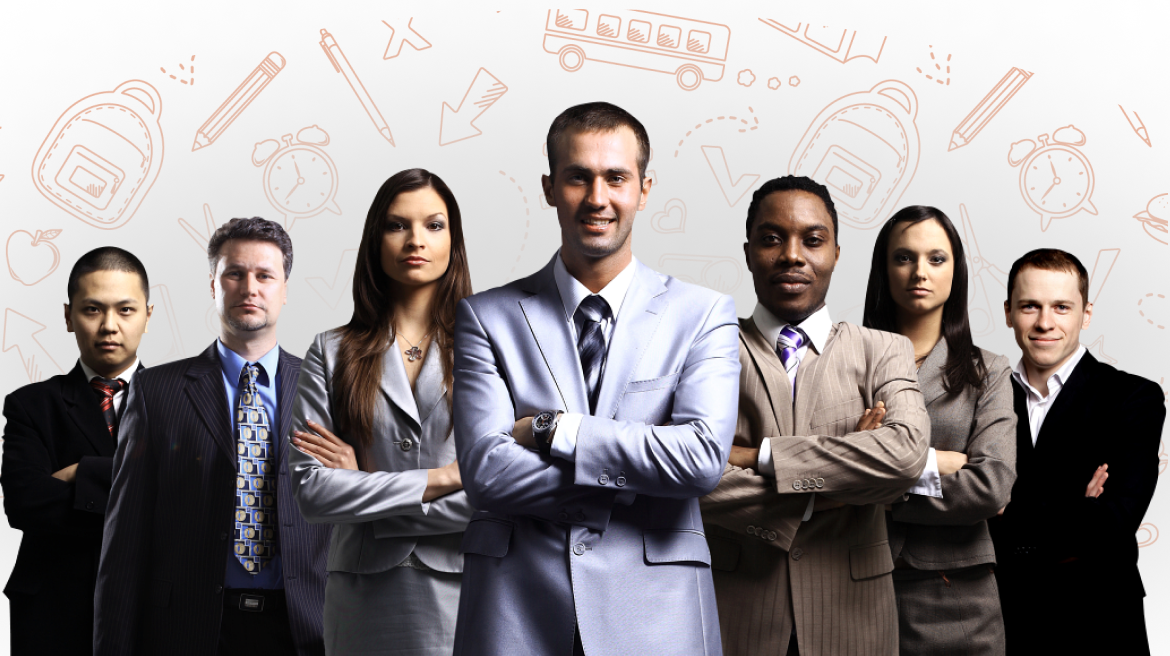
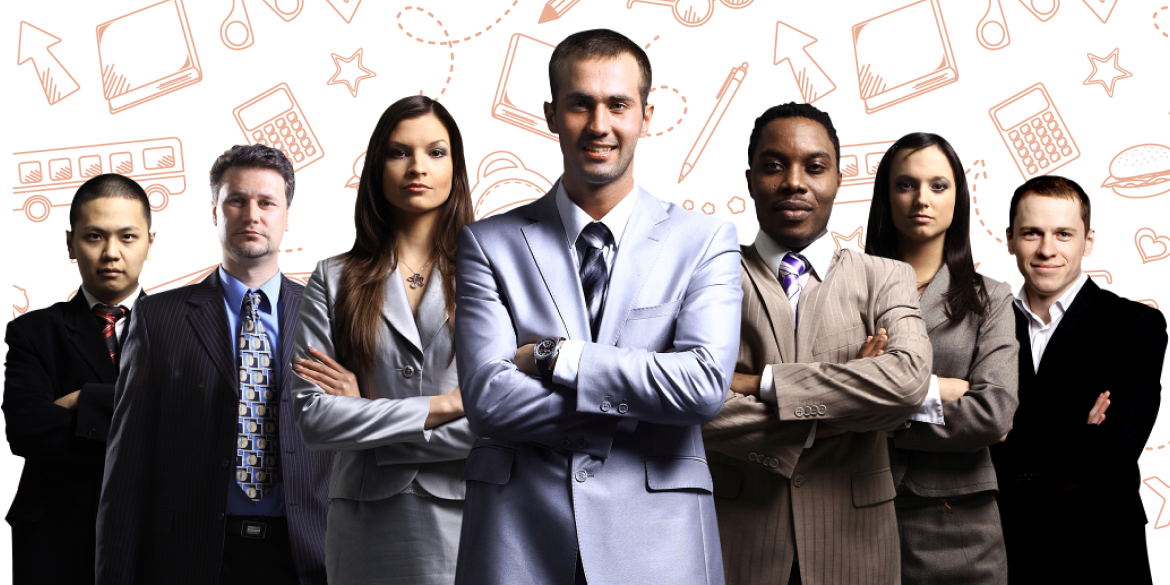
welcome page

diff --git a/css/index.css b/css/index.css
@@ -3,6 +3,9 @@
 
     font-family: 'Montserrat', sans-serif;
     font-style: normal;
+
+    -webkit-box-sizing: border-box;
+    -moz-box-sizing: border-box;
 }
 
 a:link, a:visited,  a:hover, a:active {
@@ -19,7 +22,7 @@ html, body {
     position: relative;
     display: flex;
     flex-direction: column;
-    gap: 30px;
+    gap: 10px;
 }
 
 .home {
@@ -41,7 +44,17 @@ html, body {
 .home .header .logo-and-name {
     position: relative;
     height: 46px;
-    width: 200px;
+    width: 185px;
+
+    border-radius: 10px;
+    background: linear-gradient(to left, transparent 50%, #FFE49A 50%);
+    background-size: 200%;
+    background-position: right;
+    transition: background-position 0.5s ease-in-out;
+}
+
+.home .header .logo-and-name:hover {
+    background-position: left;
 }
 
 .home .header .logo-and-name .logo {
@@ -143,5 +156,90 @@ html, body {
 }
 
 .welcome-content .team_photo img {
+    position: relative;
     width: 100%;
+    z-index: 2;
+}
+
+.welcome-content .blur-ellipse {
+    position: absolute;
+    width: 100%;
+    height: 400px;
+    max-height: 100%;
+    left: 50%;
+    transform: translateX(-50%);
+    top: 200px;
+    z-index: 1;
+
+    border-radius: 50%;
+    background: #D9D9D9;
+    filter: blur(250px);
+}
+
+.welcome-content .rectangle {
+    position: absolute;
+    width: 80%;
+    height: 180px;
+    bottom: -53px;
+    left: 50%;
+    transform: translateX(-50%);
+    z-index: 3;
+
+    background: #FFE49A;
+    border-radius: 20px;
+}
+
+.welcome-content .rectangle .name {
+    position: absolute;
+    top: 53px;
+    left: 60px;
+
+    font-weight: 700;
+    font-size: 32px;
+    line-height: 39px;
+    display: flex;
+    align-items: center;
+
+    color: #000000;
+}
+
+.welcome-content .rectangle .description {
+    position: absolute;
+    bottom: 53px;
+    left: 60px;
+
+    font-weight: 400;
+    font-size: 20px;
+    line-height: 24px;
+    display: flex;
+    align-items: center;
+
+    color: #000000;
+}
+
+.welcome-content .rectangle .main-btn {
+    position: absolute;
+    right: 60px;
+    width: 300px;
+    height: 63px;
+    top: 50%;
+    transform: translateY(-50%);
+
+    font-weight: 700;
+    font-size: 20px;
+    line-height: 24px;
+    display: flex;
+    align-items: center;
+    text-align: center;
+    justify-content: center;
+
+    color: #FFFFFF;
+
+    background: #F44F38;
+    box-shadow: 0px 4px 50px rgba(0, 0, 0, 0.25);
+    border-radius: 20px;
+}
+
+.welcome-content .rectangle .main-btn:hover {
+    background: #F43838;
 }

diff --git a/index.html b/index.html
@@ -14,6 +14,7 @@
 <body>
 
 <section class="home">
+
     <div class="container">
 
         <div class="header">
@@ -40,9 +41,16 @@
 
         <div class="welcome-content">
             <div class="team_photo"><img src="img/team.png" alt="team"></div>
+            <div class="blur-ellipse"></div>
+            <div class="rectangle">
+                <div class="name">Онлайн школа START ZNO</div>
+                <div class="description">Розпочни свій шлях до омріяних 200</div>
+                <a href=""><div class="main-btn">Почати навчання</div></a>
+            </div>
         </div>
 
     </div>
+
 </section>
 
 </body>
